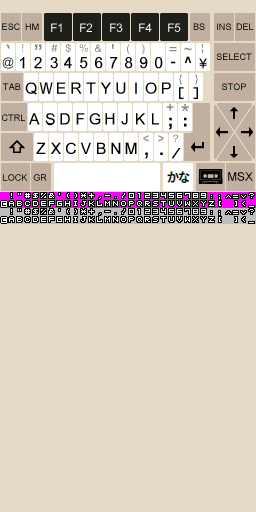
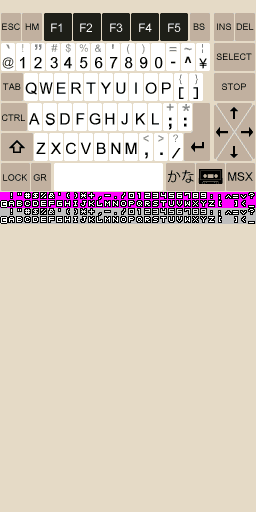
More tweaks to keyboard layouts and handling. New simplified alpha-numeric keyboard added.

Changed region(s): [[0.625, 0.3125, 0.7812, 0.375], [0.7188, 0.1875, 0.75, 0.2188], [0.6562, 0.2188, 0.6875, 0.25]]

diff --git a/arm9/source/colecoDS.c b/arm9/source/colecoDS.c
@@ -35,6 +35,7 @@
 #include "mtx_full.h"
 #include "msx_japan.h"
 #include "adam_full.h"
+#include "alpha_kbd.h"
 #include "pv2000_sm.h"
 #include "ecranDebug.h"
 #include "ecranBasSel.h"
@@ -1939,6 +1940,81 @@ u8 handle_cvision_keyboard_press(u16 iTx, u16 iTy)  // Special controller for th
     return MENU_CHOICE_NONE;
 }
 
+u8 handle_alpha_keyboard_press(u16 iTx, u16 iTy)  // Generic and Simplified Alpha-Numeric Keyboard
+{
+    if ((iTy >= 14) && (iTy < 48))   // Row 1 (number row)
+    {
+        if      ((iTx >= 0)   && (iTx < 28))   kbd_key = '1';
+        else if ((iTx >= 28)  && (iTx < 54))   kbd_key = '2';
+        else if ((iTx >= 54)  && (iTx < 80))   kbd_key = '3';
+        else if ((iTx >= 80)  && (iTx < 106))  kbd_key = '4';
+        else if ((iTx >= 106) && (iTx < 132))  kbd_key = '5';
+        else if ((iTx >= 132) && (iTx < 148))  kbd_key = '6';
+        else if ((iTx >= 148) && (iTx < 174))  kbd_key = '7';
+        else if ((iTx >= 174) && (iTx < 200))  kbd_key = '8';
+        else if ((iTx >= 200) && (iTx < 226))  kbd_key = '9';
+        else if ((iTx >= 226) && (iTx < 255))  kbd_key = '0';
+    }
+    else if ((iTy >= 48) && (iTy < 85))  // Row 2 (QWERTY row)
+    {
+        if      ((iTx >= 0)   && (iTx < 28))   kbd_key = 'Q';
+        else if ((iTx >= 28)  && (iTx < 54))   kbd_key = 'W';
+        else if ((iTx >= 54)  && (iTx < 80))   kbd_key = 'E';
+        else if ((iTx >= 80)  && (iTx < 106))  kbd_key = 'R';
+        else if ((iTx >= 106) && (iTx < 132))  kbd_key = 'T';
+        else if ((iTx >= 132) && (iTx < 148))  kbd_key = 'Y';
+        else if ((iTx >= 148) && (iTx < 174))  kbd_key = 'U';
+        else if ((iTx >= 174) && (iTx < 200))  kbd_key = 'I';
+        else if ((iTx >= 200) && (iTx < 226))  kbd_key = 'O';
+        else if ((iTx >= 226) && (iTx < 255))  kbd_key = 'P';
+    }
+    else if ((iTy >= 85) && (iTy < 122)) // Row 3 (ASDF row)
+    {
+        if      ((iTx >= 0)   && (iTx < 28))   kbd_key = 'A';
+        else if ((iTx >= 28)  && (iTx < 54))   kbd_key = 'S';
+        else if ((iTx >= 54)  && (iTx < 80))   kbd_key = 'D';
+        else if ((iTx >= 80)  && (iTx < 106))  kbd_key = 'F';
+        else if ((iTx >= 106) && (iTx < 132))  kbd_key = 'G';
+        else if ((iTx >= 132) && (iTx < 148))  kbd_key = 'H';
+        else if ((iTx >= 148) && (iTx < 174))  kbd_key = 'J';
+        else if ((iTx >= 174) && (iTx < 200))  kbd_key = 'K';
+        else if ((iTx >= 200) && (iTx < 226))  kbd_key = 'L';
+        else if ((iTx >= 226) && (iTx < 255))  kbd_key = kbd_key = (adam_mode ? ADAM_KEY_BS : KBD_KEY_BS);;
+    }
+    else if ((iTy >= 122) && (iTy < 159)) // Row 4 (ZXCV row)
+    {
+        if      ((iTx >= 0)   && (iTx < 28))   kbd_key = 'Z';
+        else if ((iTx >= 28)  && (iTx < 54))   kbd_key = 'X';
+        else if ((iTx >= 54)  && (iTx < 80))   kbd_key = 'C';
+        else if ((iTx >= 80)  && (iTx < 106))  kbd_key = 'V';
+        else if ((iTx >= 106) && (iTx < 132))  kbd_key = 'B';
+        else if ((iTx >= 132) && (iTx < 148))  kbd_key = 'N';
+        else if ((iTx >= 148) && (iTx < 174))  kbd_key = 'M';
+        else if ((iTx >= 174) && (iTx < 200))  kbd_key = ',';
+        else if ((iTx >= 200) && (iTx < 226))  kbd_key = '.';
+        else if ((iTx >= 226) && (iTx < 255))  kbd_key = (adam_mode ? ADAM_KEY_ENTER : KBD_KEY_RET);
+    }
+    else if ((iTy >= 159) && (iTy < 192)) // Row 5 (SPACE BAR and icons row)
+    {
+        if      ((iTx >= 1)   && (iTx < 52))   return MENU_CHOICE_MENU;
+        else if ((iTx >= 54)  && (iTx < 202))  kbd_key = ' ';
+        else if ((iTx >= 202) && (iTx < 255))  return MENU_CHOICE_CASSETTE; 
+    }
+    
+    if (adam_mode)
+    {
+        if (kbd_key != last_kbd_key && (kbd_key != 0) && (last_kbd_key != 255))
+        {
+            PutKBD(kbd_key | (((adam_CapsLock && (kbd_key >= 'A') && (kbd_key <= 'Z')) || key_shift) ? CON_SHIFT:0));
+            mmEffect(SFX_KEYCLICK);  // Play short key click for feedback...
+            last_kbd_key = kbd_key;
+        }
+    }
+    
+    return MENU_CHOICE_NONE;
+}
+
+
 u8 handle_normal_virtual_keypad(u16 iTx, u16 iTy)  // All other normal overlays with keypad on the right and menu choices on the left
 {
     // For ADAM, the standard overlay has a CASSETTE icon to save data...
@@ -2143,6 +2219,10 @@ void colecoDS_main(void)
         {
             meta_key = handle_cvision_keyboard_press(iTx, iTy);
         }
+        else if (myConfig.overlay == 13) // Simplified Alpha Keyboard
+        {
+            meta_key = handle_alpha_keyboard_press(iTx, iTy);
+        }
         else    // Normal 12 button virtual keypad
         {
             meta_key = handle_normal_virtual_keypad(iTx, iTy);
@@ -2266,7 +2346,7 @@ void colecoDS_main(void)
         {
             if (((ucUN != 0) || (kbd_key != 0)) && (lastUN == 0))
             {
-                mmEffect(SFX_KEYCLICK);  // Play short key click for feedback...
+                if (!adam_mode) mmEffect(SFX_KEYCLICK);  // Play short key click for feedback... ADAM handers do this for us
             }
             lastUN = (ucUN ? ucUN:kbd_key);
         }
@@ -2678,6 +2758,14 @@ void InitBottomScreen(void)
       decompress(cvision_kbdMap, (void*) bgGetMapPtr(bg0b),  LZ77Vram);
       dmaCopy((void*) bgGetMapPtr(bg0b)+32*30*2,(void*) bgGetMapPtr(bg1b),32*24*2);
       dmaCopy((void*) cvision_kbdPal,(void*) BG_PALETTE_SUB,256*2);
+    }
+    else if (myConfig.overlay == 13) // Alpha Simplified Keyboard
+    {
+      //  Init bottom screen
+      decompress(alpha_kbdTiles, bgGetGfxPtr(bg0b),  LZ77Vram);
+      decompress(alpha_kbdMap, (void*) bgGetMapPtr(bg0b),  LZ77Vram);
+      dmaCopy((void*) bgGetMapPtr(bg0b)+32*30*2,(void*) bgGetMapPtr(bg1b),32*24*2);
+      dmaCopy((void*) alpha_kbdPal,(void*) BG_PALETTE_SUB,256*2);
     }
     else // Generic Overlay
     {

diff --git a/arm9/source/colecogeneric.c b/arm9/source/colecogeneric.c
@@ -1667,7 +1667,7 @@ const struct options_t Option_Table[3][20] =
 {
     // Page 1
     {
-        {"OVERLAY",        {"GENERIC", "WARGAMES", "MOUSETRAP", "GATEWAY", "SPY HUNTER", "FIX UP MIX UP", "BOULDER DASH", "QUINTA ROO", "2010", "ADAM KEYBOARD", "MSX/SVI KEYBD", "MTX KEYBOARD", "CREATIVISION"},&myConfig.overlay,    13},
+        {"OVERLAY",        {"GENERIC", "WARGAMES", "MOUSETRAP", "GATEWAY", "SPY HUNTER", "FIX UP MIX UP", "BOULDER DASH", "QUINTA ROO", "2010", "ADAM KEYBOARD", "MSX/SVI KEYBD", "MTX KEYBOARD", "CREATIVISION", "ALPHA KEYBOARD"},&myConfig.overlay,    14},
         {"FRAME SKIP",     {"OFF", "SHOW 3/4", "SHOW 1/2"},                                                                                                                                     &myConfig.frameSkip,  3},
         {"FRAME BLEND",    {"OFF", "ON"},                                                                                                                                                       &myConfig.frameBlend, 2},
         {"VIDEO TYPE",     {"NTSC", "PAL"},                                                                                                                                                     &myConfig.isPAL,      2},
